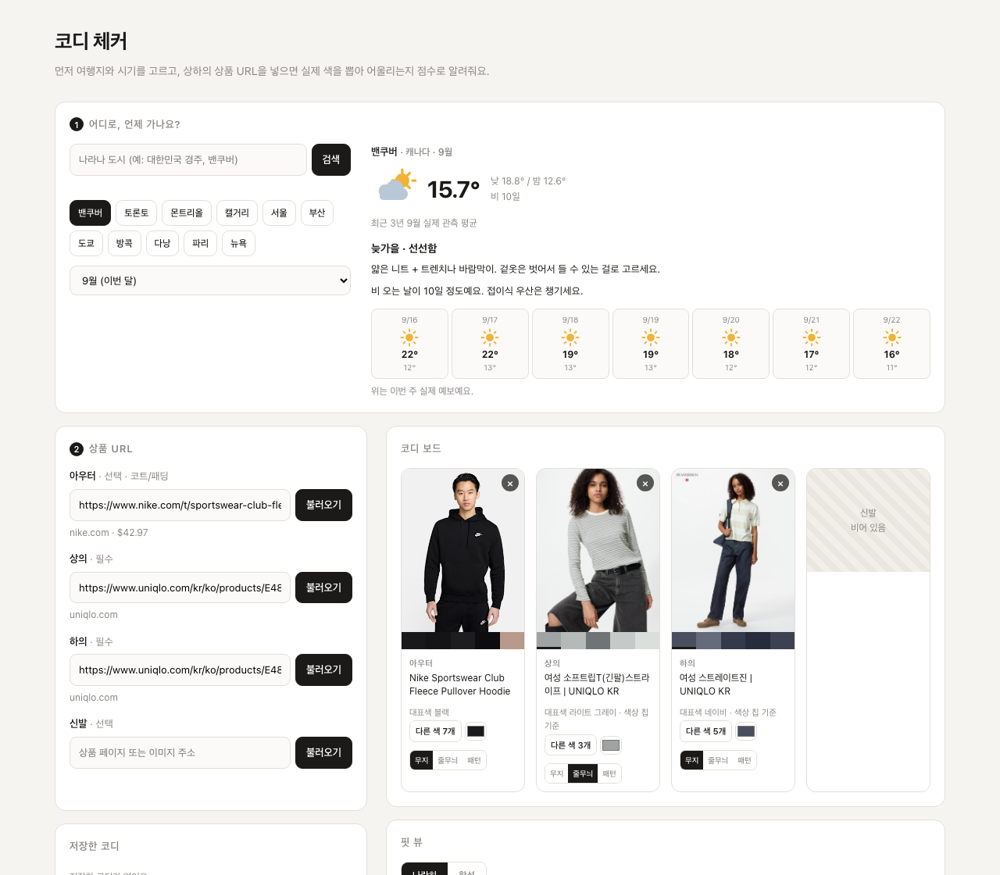
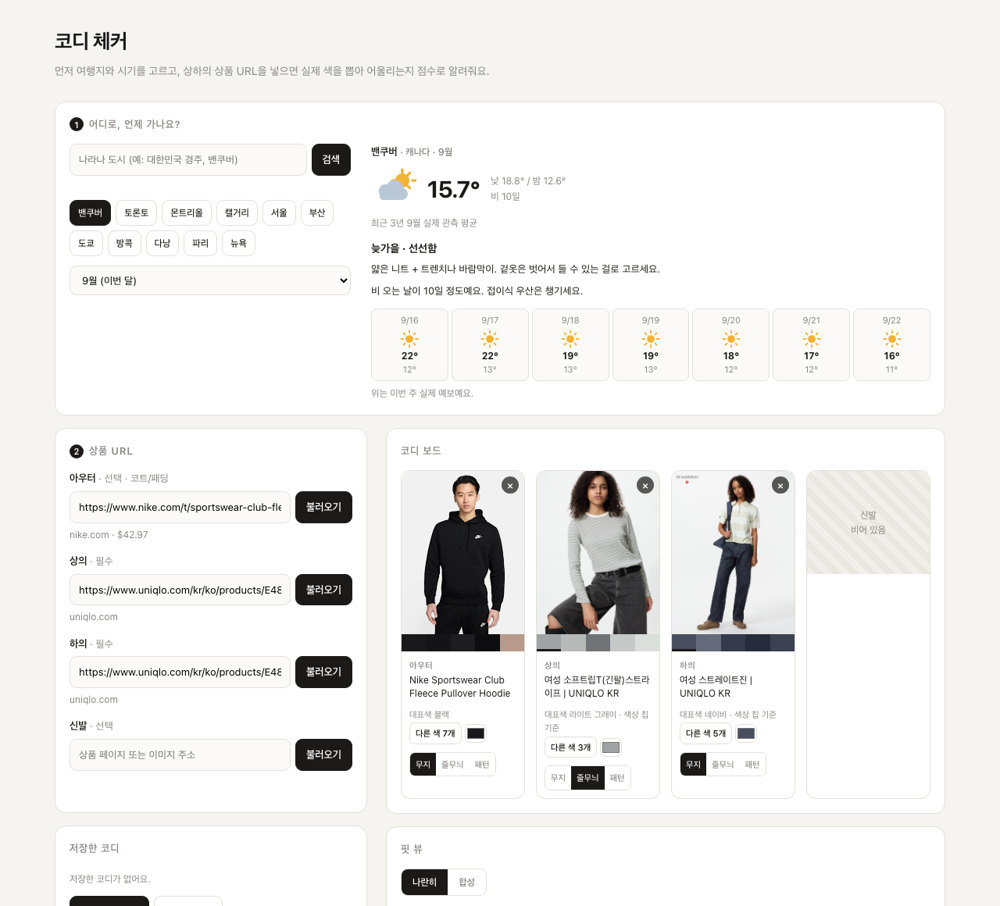
안내 페이지: 문장이 끊겨 보이던 것과 옛 스크린샷 교체
- ol.steps b{display:block} 이 문장 안의 <b> 까지 블록으로 만들어서
  "처음 한 번만" 이 줄바꿈되고 문장이 끊겨 보였다. 단계 제목만 블록으로 한정
- 슬라이더 스크린샷이 2열로 섞여 나오던 이전 버전이었다. 1열로 고친 현재
  화면에서 다시 찍었다
- 나란히 놓는 두 장의 높이를 920px 로 맞추고, 잘리는 위치를 카드 경계로
- 괄호 안 코드 표기가 어색해서 문장으로 풀었다

diff --git a/docs/index.html b/docs/index.html
@@ -22,7 +22,7 @@
   p{margin:0 0 12px}
   img{max-width:100%;display:block;border:1px solid var(--line);border-radius:12px}
   .shots{display:grid;grid-template-columns:1fr;gap:14px;margin:20px 0 8px}
-  .pair{display:grid;grid-template-columns:1fr 1fr;gap:14px}
+  .pair{display:grid;grid-template-columns:1fr 1fr;gap:14px;align-items:start}
   @media (max-width:640px){.pair{grid-template-columns:1fr}}
   figcaption{font-size:13px;color:var(--muted);margin-top:7px}
   figure{margin:0}
@@ -33,7 +33,7 @@
   ol.steps li::before{content:counter(s);position:absolute;left:0;top:2px;width:26px;height:26px;
     border-radius:50%;background:var(--ink);color:#fff;font-size:13px;font-weight:700;
     display:flex;align-items:center;justify-content:center}
-  ol.steps b{display:block;font-size:16px;margin-bottom:3px}
+  ol.steps li > b{display:block;font-size:16px;margin-bottom:3px}
   ol.steps span{font-size:15px;color:#5b5752}
   code{background:#eeebe6;padding:2px 6px;border-radius:5px;font-size:14px;
     font-family:ui-monospace,SFMono-Regular,Menlo,monospace}
@@ -141,7 +141,7 @@
   <ul>
     <li>쿠팡·에이블리처럼 자동 수집을 막는 사이트는 안 됩니다. 상품 이미지 주소를 직접 넣거나
       색을 직접 지정하면 돼요. 무신사·유니클로·나이키·아임웹 쇼핑몰은 잘 됩니다.</li>
-    <li>서버는 내 맥에서만 열립니다(<code>127.0.0.1</code>). 같은 와이파이의 다른 사람은 볼 수 없어요.</li>
+    <li>서버는 내 맥 안에서만 열려요. 같은 와이파이를 쓰는 다른 사람도 볼 수 없습니다.</li>
     <li>저장한 코디는 그 브라우저에만 남습니다. 다른 기기로는 안 넘어갑니다.</li>
     <li>기온 데이터는 Open-Meteo, 지역 검색은 Open-Meteo와 OpenStreetMap을 씁니다.
       가입이나 키 발급은 필요 없어요.</li>
